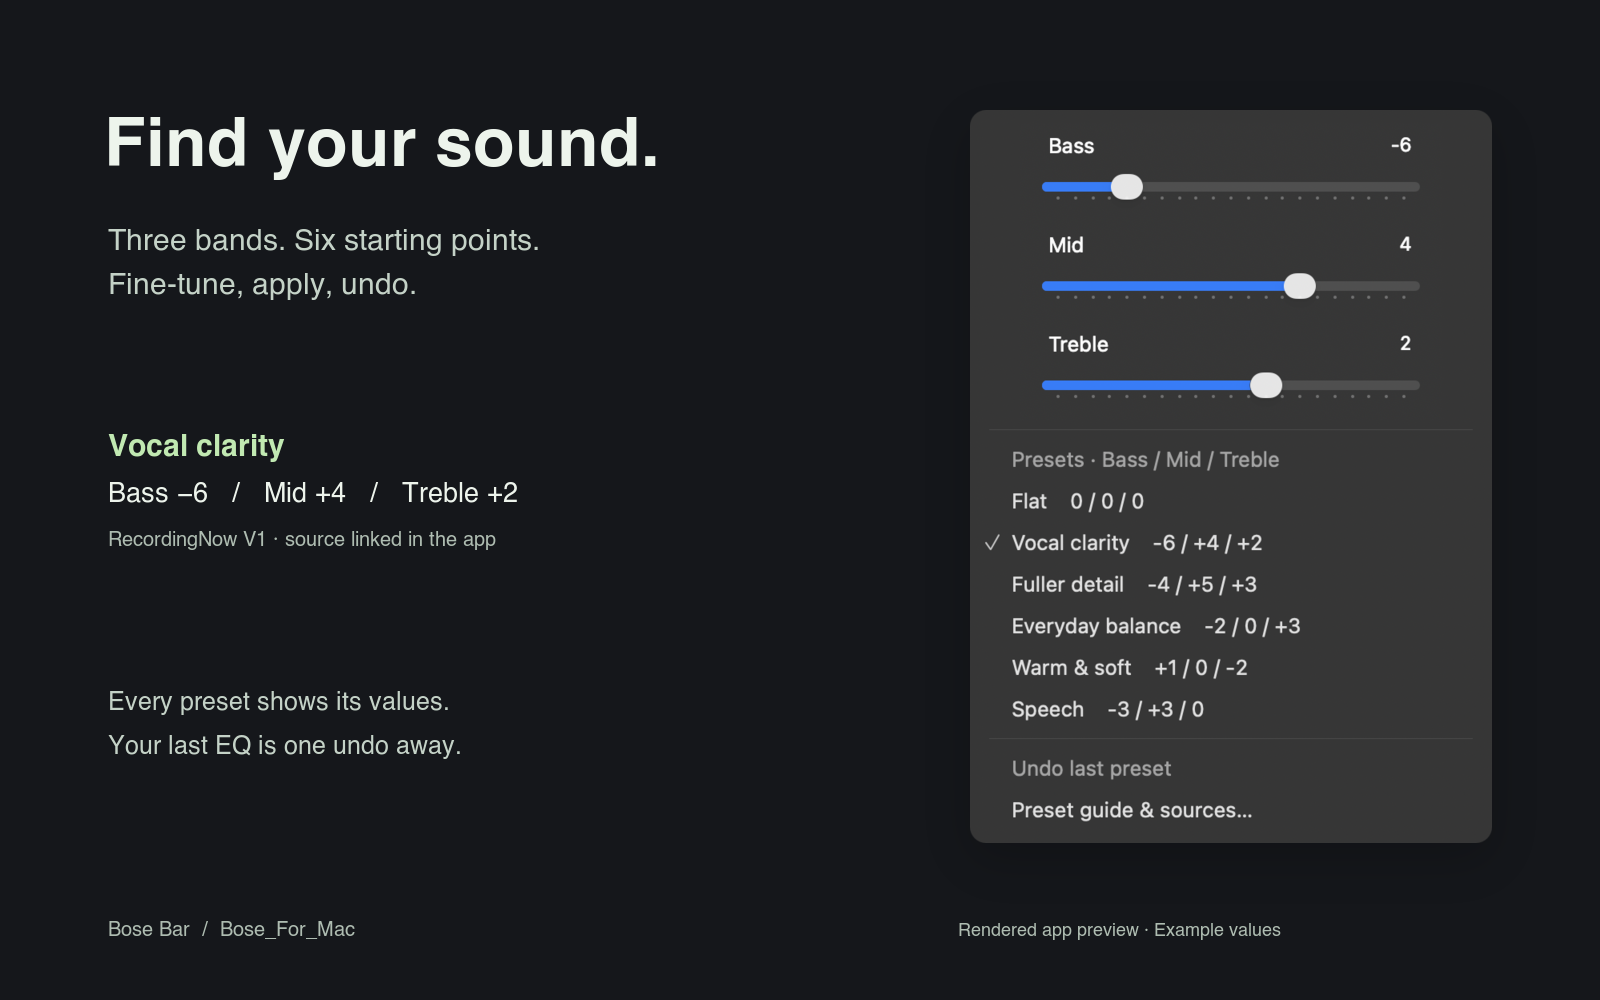
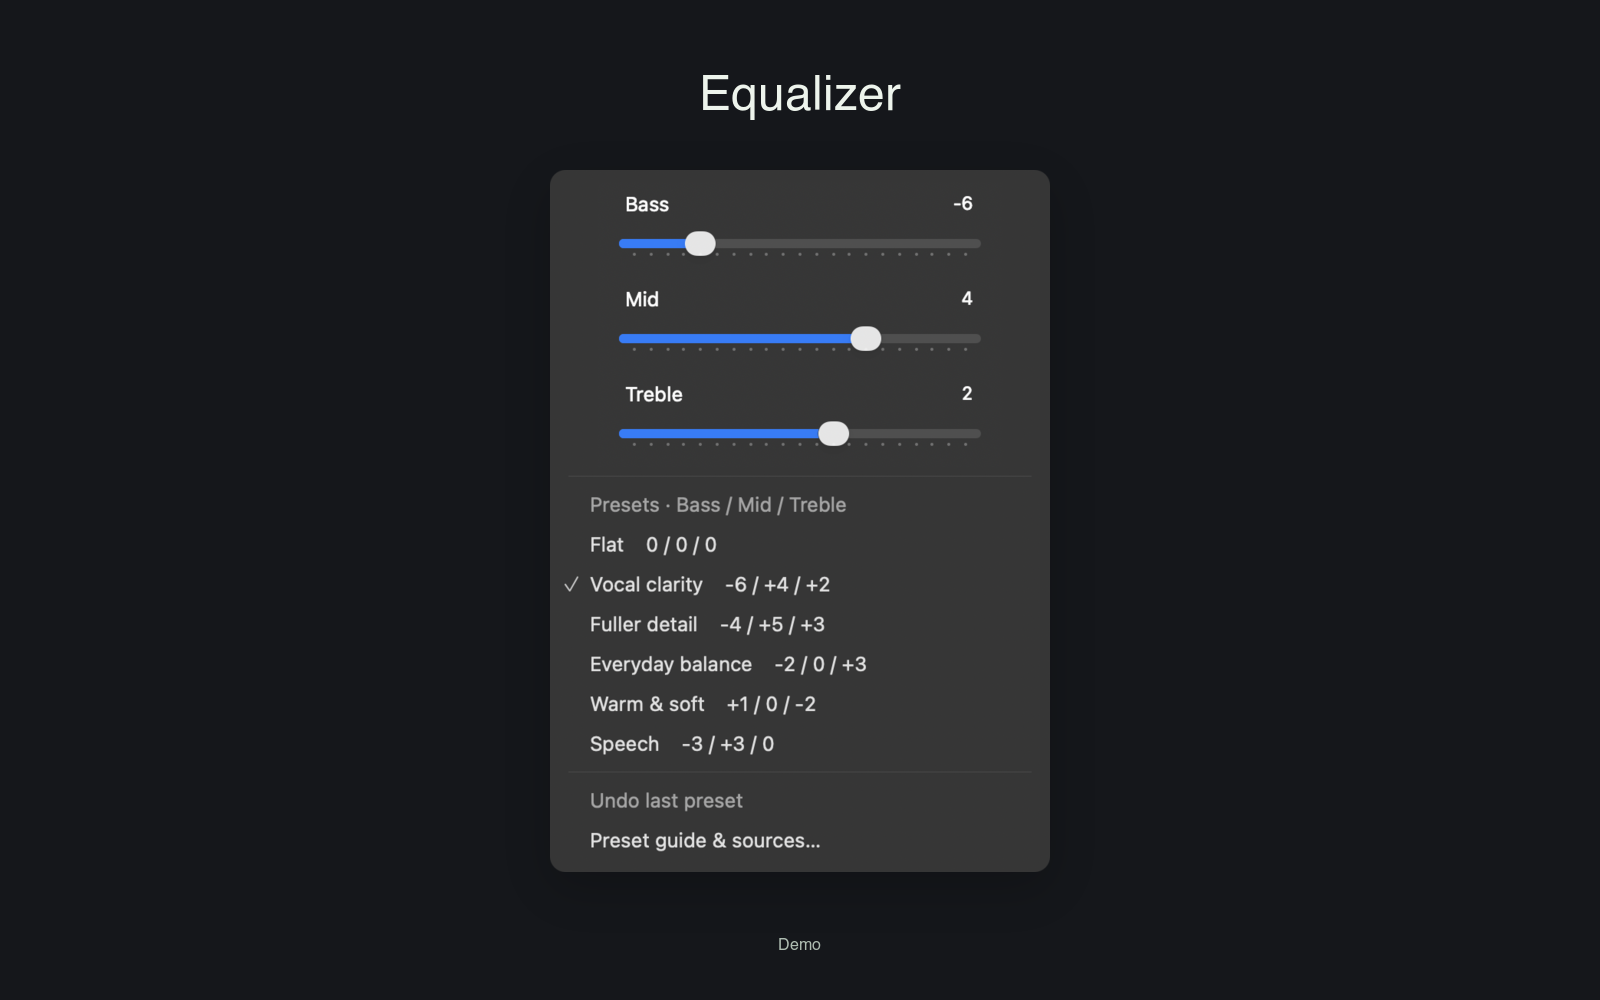
Simplify demo artwork around the native UI

diff --git a/scripts/make-artwork.py b/scripts/make-artwork.py
@@ -14,13 +14,13 @@ STYLE = json.loads((ROOT / "scripts/assets/demo-style.json").read_text())
 def run(*args):
     subprocess.run([str(a) for a in args], check=True)
 
-def text(x, y, message, size=32, weight=400, color="#17352b"):
-    return f'<text x="{x}" y="{y}" font-family="Helvetica" font-size="{size}" font-weight="{weight}" fill="{color}">{html.escape(message)}</text>'
+def text(x, y, message, size=32, weight=400, color="#17352b", anchor="start"):
+    return f'<text x="{x}" y="{y}" text-anchor="{anchor}" font-family="Helvetica" font-size="{size}" font-weight="{weight}" fill="{color}">{html.escape(message)}</text>'
 
-def plate(name, theme, elements):
+def plate(name, theme, elements, height=1000):
     spec = STYLE[theme]
     source = OUT / f"{name}.svg"
-    source.write_text(f'<svg xmlns="http://www.w3.org/2000/svg" width="1600" height="1000"><rect width="1600" height="1000" fill="{spec["background"]}"/>' + ''.join(elements) + '</svg>')
+    source.write_text(f'<svg xmlns="http://www.w3.org/2000/svg" width="1600" height="{height}"><rect width="1600" height="{height}" fill="{spec["background"]}"/>' + ''.join(elements) + '</svg>')
     target = OUT / f"{name}.png"
     run("magick", "-background", "none", source, target)
     return target
@@ -34,42 +34,24 @@ def place(canvas, source, width, x, y):
     run("magick", canvas, shadow, "-geometry", f"+{x-48}+{y-32}", "-composite", canvas)
     resized.unlink(); shadow.unlink()
 
+# Product-first: one short heading, centered native UI, one honest demo label.
 hero = plate("hero", "sage", [
-    text(104, 192, "Bose Bar", 88, 700),
-    text(108, 294, "Your headphones.", 56, 500),
-    text(108, 364, "Within reach.", 56, 500),
-    text(110, 458, "Modes, EQ and battery", 30),
-    text(110, 502, "from a tiny native Mac menu.", 30),
-    text(110, 760, "Local Bluetooth. No account.", 26),
-    text(110, 804, "Free & open source.", 26),
-    text(110, 936, "macOS 13+  /  Apple silicon + Intel", 20),
-    text(958, 936, "Rendered app preview · Example values", 18)
+    text(800, 126, "Bose Bar", 48, 500, anchor="middle"),
+    text(800, 936, "Demo", 16, color="#566b5d", anchor="middle")
 ])
-place(hero, RAW / "menu-light.png", 500, 982, 206)
+place(hero, RAW / "menu-light.png", 500, 550, 220)
 
 eq = plate("equalizer", "midnight", [
-    text(104, 166, "Find your sound.", 68, 700, "#edf4ec"),
-    text(108, 250, "Three bands. Six starting points.", 30, color="#c4d2c7"),
-    text(108, 294, "Fine-tune, apply, undo.", 30, color="#c4d2c7"),
-    text(108, 456, "Vocal clarity", 30, 700, "#c1e9b2"),
-    text(108, 502, "Bass −6   /   Mid +4   /   Treble +2", 27, color="#edf4ec"),
-    text(108, 546, "RecordingNow V1 · source linked in the app", 20, color="#aebcb1"),
-    text(108, 710, "Every preset shows its values.", 25, color="#c4d2c7"),
-    text(108, 754, "Your last EQ is one undo away.", 25, color="#c4d2c7"),
-    text(108, 936, "Bose Bar  /  Bose_For_Mac", 20, color="#aebcb1"),
-    text(958, 936, "Rendered app preview · Example values", 18, color="#aebcb1")
+    text(800, 110, "Equalizer", 48, 500, "#edf4ec", anchor="middle"),
+    text(800, 950, "Demo", 16, color="#aebcb1", anchor="middle")
 ])
-place(eq, RAW / "equalizer-dark.png", 522, 970, 110)
+place(eq, RAW / "equalizer-dark.png", 500, 550, 170)
 
 battery = plate("battery", "sage", [
-    text(104, 164, "A little bar. One less number.", 66, 700),
-    text(108, 252, "Battery at a glance, without crowding your menu bar.", 30),
-    text(108, 684, "Fills from the bottom as charge increases.", 28),
-    text(108, 734, "The exact percentage stays in the menu and tooltip.", 28),
-    text(108, 936, "Bose Bar  /  Optional vertical battery indicator", 20),
-    text(1050, 936, "Rendered demo · 100 / 60 / 15%", 18)
-])
-place(battery, RAW / "battery-light.png", 1120, 240, 358)
+    text(800, 138, "Battery", 48, 500, anchor="middle"),
+    text(800, 586, "Demo", 16, color="#566b5d", anchor="middle")
+], height=640)
+place(battery, RAW / "battery-light.png", 880, 360, 250)
 
 if "--skip-icon" in sys.argv:
     print("Created hero.png, equalizer.png and battery.png")

diff --git a/DESIGN.md b/DESIGN.md
@@ -26,7 +26,7 @@ Labels use Bose's actual mode names. The noise-cancellation slider, when support
 
 ### Documentation artwork
 
-Sage (#dbe5dc) and Midnight (#15171b) presentation backgrounds adapt Screenshot.rocks MIT presets. Type is dark green (#17352b) or pale neutral (#edf4ec). Use 1600 × 1000 compositions, soft offset shadows and explicitly labeled rendered previews. Public images contain synthetic device values, never private identifiers. ImageMagick is a build-time art tool only. These presentation colors do not replace native AppKit colors in the application.
+Sage (#dbe5dc) and Midnight (#15171b) presentation backgrounds adapt Screenshot.rocks MIT presets. Type is dark green (#17352b) or pale neutral (#edf4ec). Use centered, UI-first compositions: one short title and a small Demo label, without marketing paragraphs or feature lists. Main and EQ images are 1600 × 1000; the battery detail is 1600 × 640. Keep soft offset shadows and generous whitespace. Public images contain synthetic device values, never private identifiers. ImageMagick is a build-time art tool only. These presentation colors do not replace native AppKit colors in the application.
 
 ## Do's and Don'ts
 
